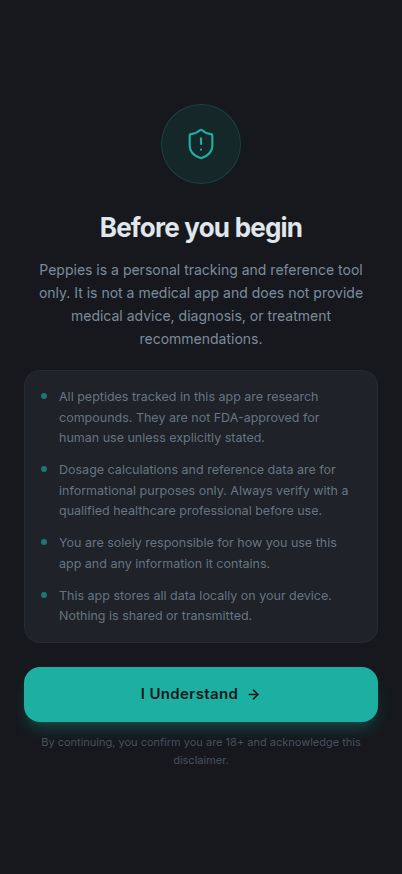
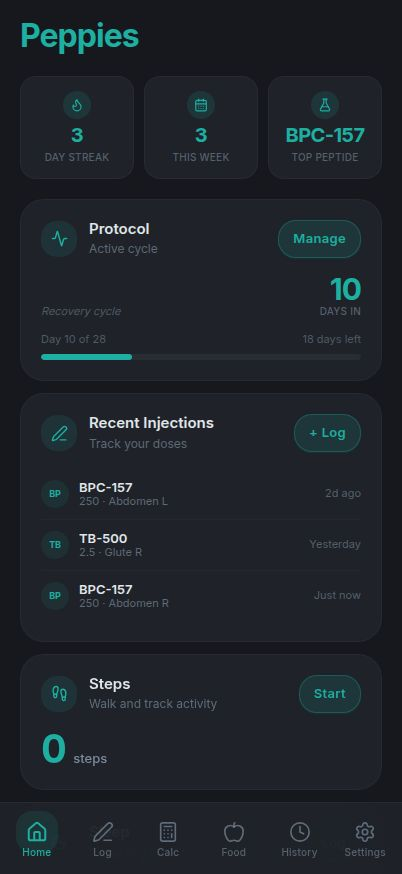
Update project screenshots and README for better presentation
Update README.md to display four screenshots in a grid layout, replacing the single screenshot. The screenshots include Home, Log, History, and Settings.

Replit-Commit-Author: Agent
Replit-Commit-Session-Id: 80633b41-20dc-4104-9571-82c61ca44d0f
Replit-Commit-Checkpoint-Type: full_checkpoint
Replit-Commit-Event-Id: 5ca76e66-a0f4-4db2-8943-735d84a2c7c2
Replit-Commit-Screenshot-Url: https://storage.googleapis.com/screenshot-production-us-central1/bdb9d836-46da-4295-a57a-a7798284b412/80633b41-20dc-4104-9571-82c61ca44d0f/M6wekFW
Replit-Helium-Checkpoint-Created: true

diff --git a/README.md b/README.md
@@ -3,7 +3,10 @@
 > A dark-mode, mobile-first PWA for peptide protocols — log injections, calculate doses, and track the daily metrics that go with them. All on your device, all yours.
 
 <p align="center">
-  <img src="docs/screenshots/home.jpg" alt="Peppies onboarding screen" width="320" />
+  <img src="docs/screenshots/home.jpg" alt="Home dashboard" width="220" />
+  <img src="docs/screenshots/log.jpg" alt="Log an injection" width="220" />
+  <img src="docs/screenshots/history.jpg" alt="Injection history" width="220" />
+  <img src="docs/screenshots/settings.jpg" alt="Settings" width="220" />
 </p>
 
 Peppies is a single-page web app that replaces the tangle of notes, spreadsheets, and reminder timers most people use to keep track of a peptide protocol. It's installable as a PWA, works offline after the first load, and stores everything in your browser — no account, no server, no analytics.